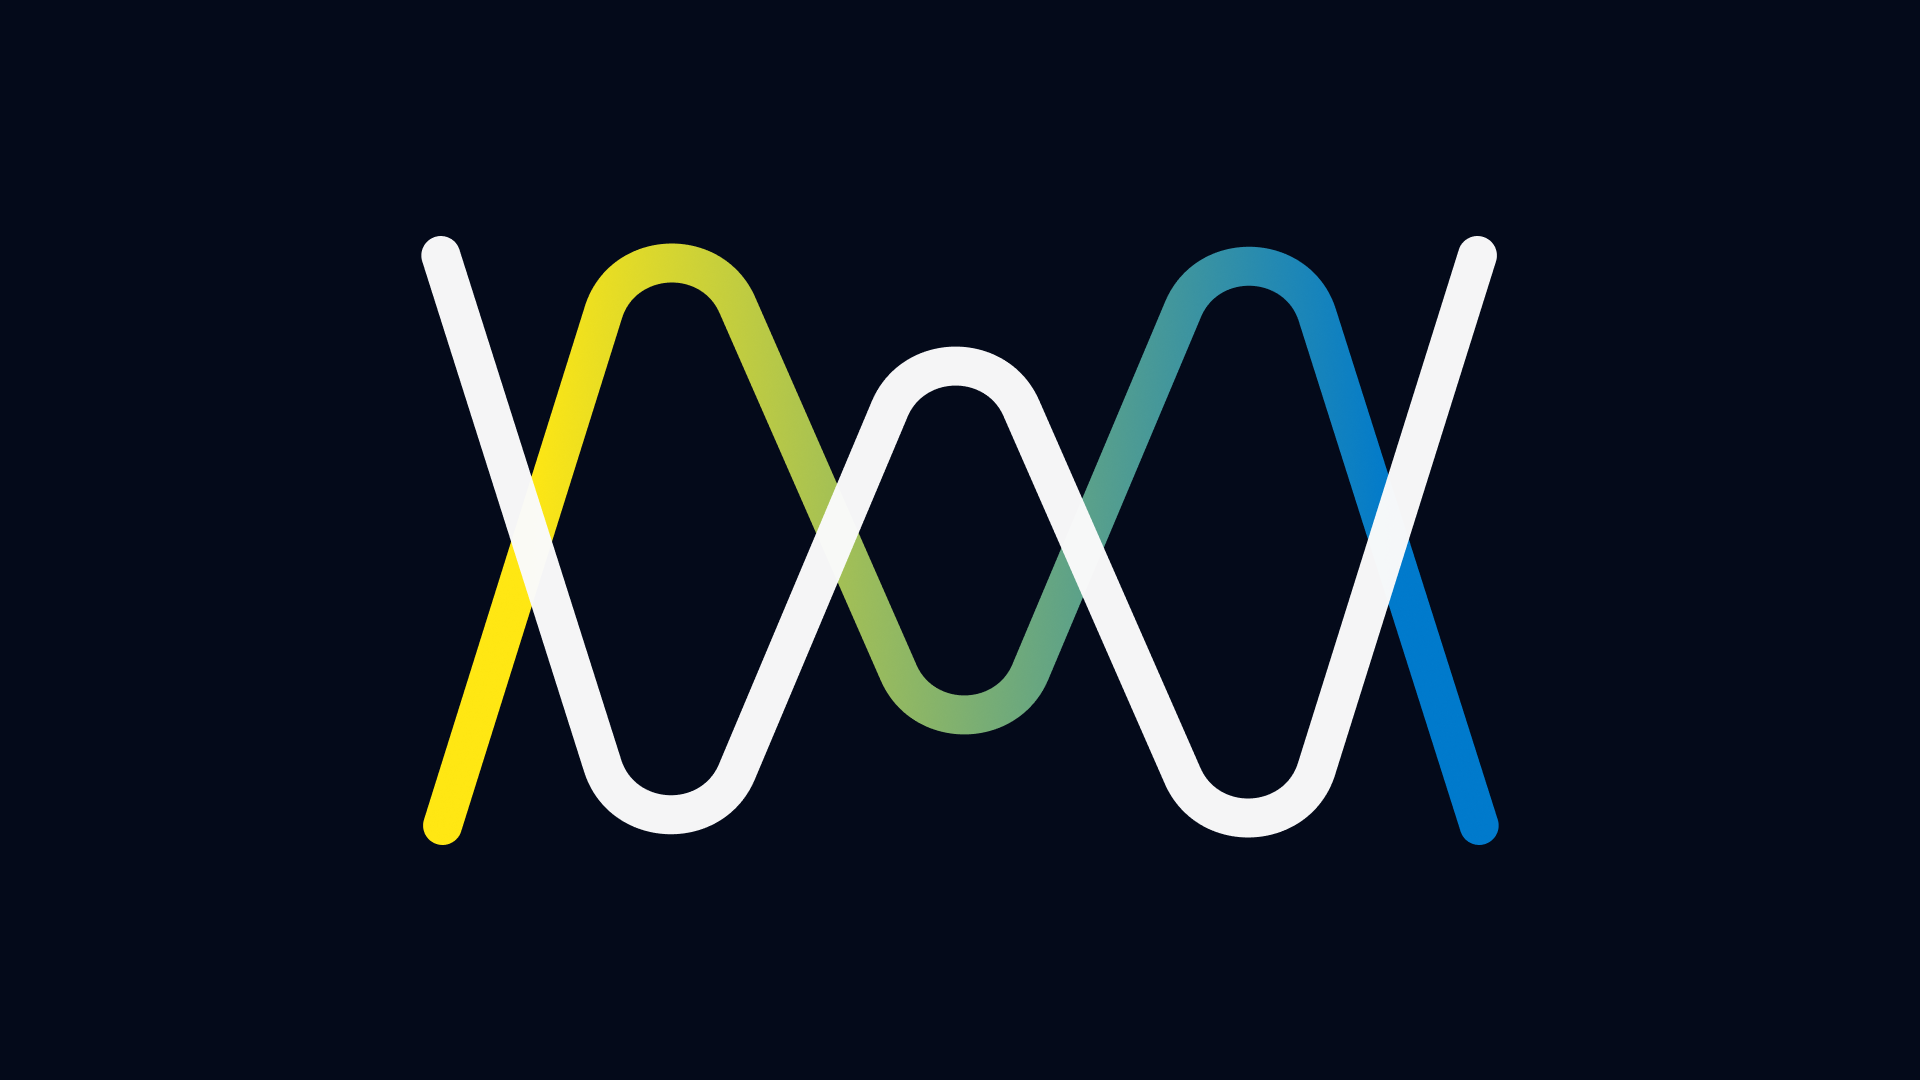
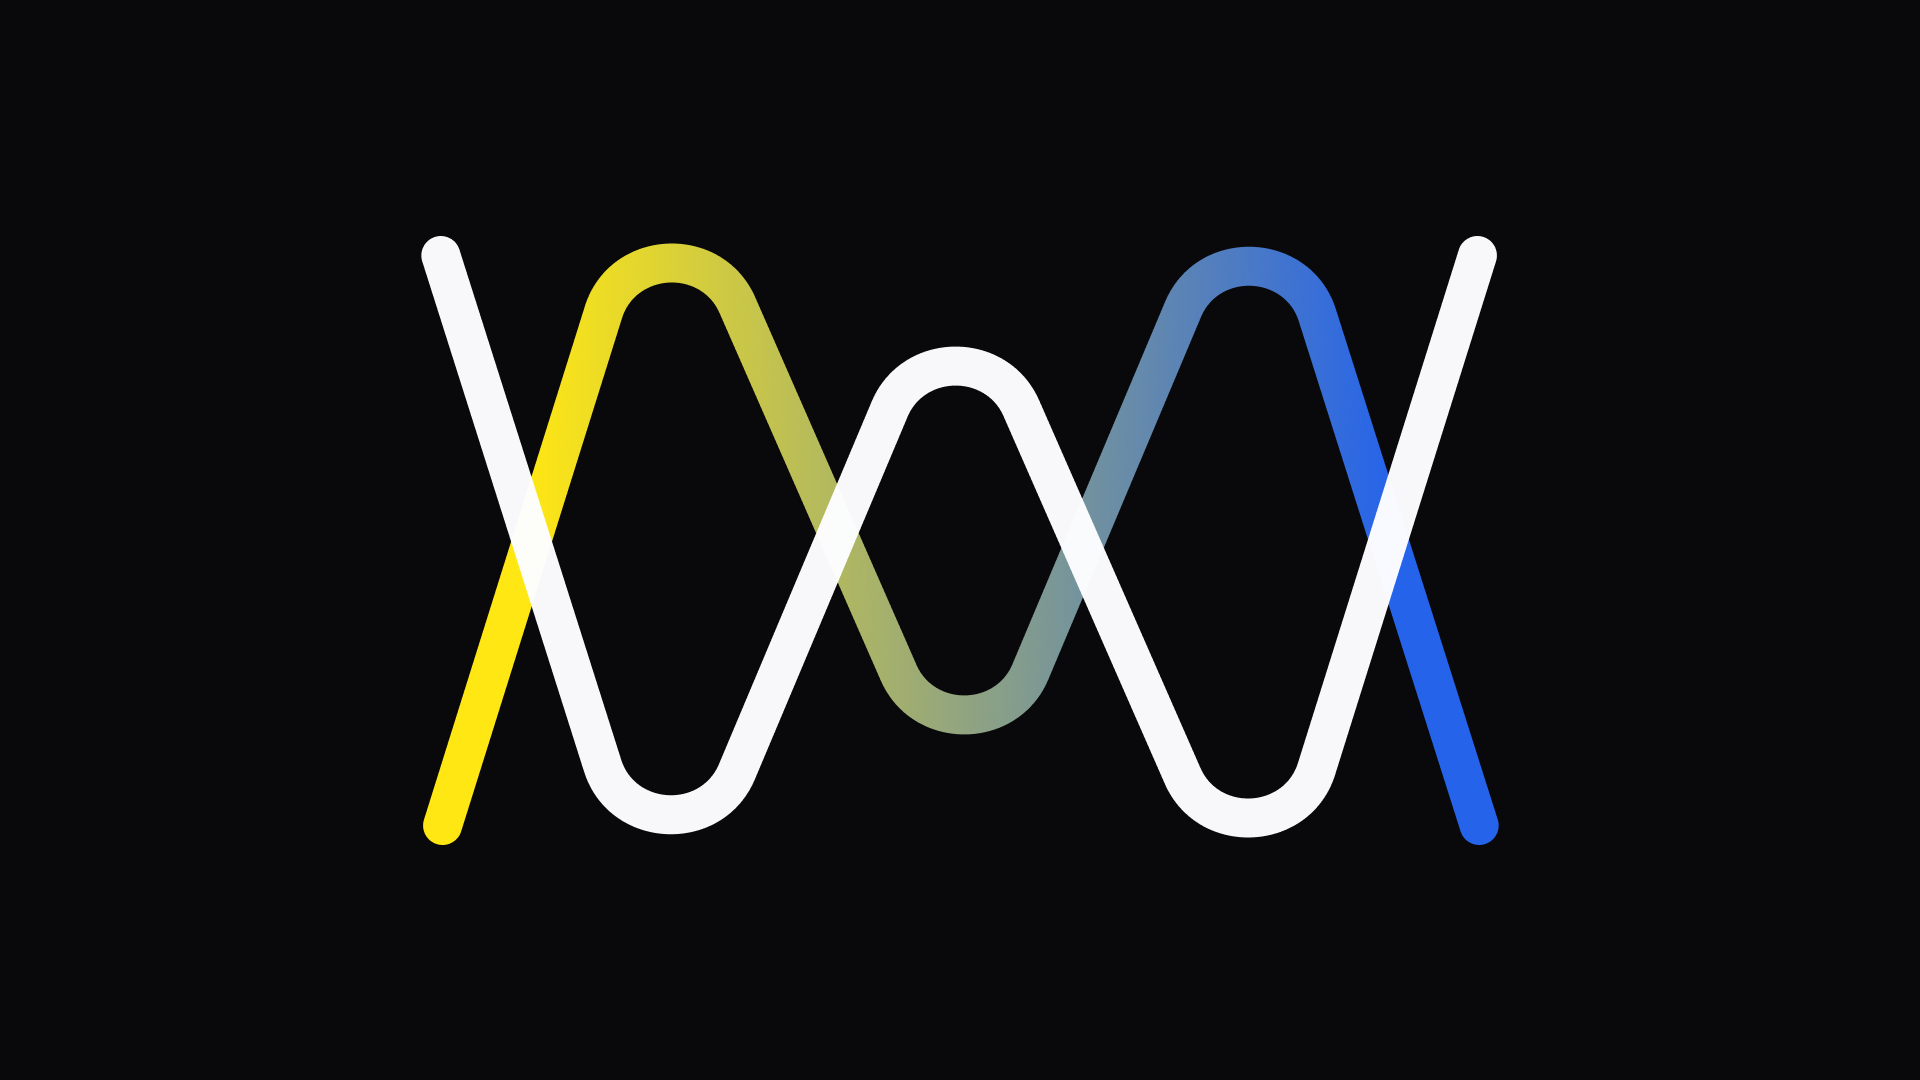
Add settings for TypeScript in VSCode, update SVG gradients, and adjust color hex values for improved UI consistency

Changed region(s): [[0.5625, 0.2139, 0.7188, 0.4889], [0.7188, 0.5194, 0.7812, 0.7944]]

diff --git a/src/components/resources/LogoList.tsx b/src/components/resources/LogoList.tsx
@@ -1,7 +1,8 @@
 /* eslint-disable @next/next/no-img-element */
 "use client";
 import { CardContainer, CardBody, CardItem } from "@/components/ui/3d-card";
-import { Button } from "@/components/ui/button";
+import { buttonVariants } from "@/components/ui/button";
+import { cn } from "@/lib/utils";
 import { DownloadIcon } from "@radix-ui/react-icons";
 
 export interface Logo {
@@ -35,14 +36,16 @@ export function LogoList({ logos = [] }: LogoListProps) {
                     <p className="text-center text-sm">{logo.size}</p>
                   </CardItem>
                   <CardItem translateZ="40">
-                    <Button
-                      variant="outline"
-                      size="sm"
-                      onClick={() => window.open(logo.src, "_blank")}
+                    <a
+                      className={cn(
+                        buttonVariants({ variant: "outline", size: "sm" }),
+                      )}
+                      href={logo.src}
+                      download
                     >
                       <DownloadIcon className="mr-2 h-4 w-4" />
                       Descargar
-                    </Button>
+                    </a>
                   </CardItem>
                 </div>
               </CardBody>

diff --git a/src/app/[lang]/globals.css b/src/app/[lang]/globals.css
@@ -14,11 +14,11 @@ body {
 
 @layer base {
   :root {
-    --background: 0 0% 100%;
+    --background: 240 100% 100%;
     --foreground: 240 10% 3.9%;
-    --card: 0 0% 100%;
+    --card: 240 100% 100%;
     --card-foreground: 240 10% 3.9%;
-    --popover: 0 0% 100%;
+    --popover: 240 100% 100%;
     --popover-foreground: 240 10% 3.9%;
     --primary: 240 5.9% 10%;
     --primary-foreground: 0 0% 98%;

diff --git a/src/components/icons/WM.tsx b/src/components/icons/WM.tsx
@@ -35,7 +35,7 @@ export const WMIcon: FC<SVGProps<SVGSVGElement>> = memo(function WMIcon({
           gradientUnits="userSpaceOnUse"
         >
           <stop offset="0.114583" stopColor="#FFE713" />
-          <stop offset="0.885417" stopColor="#007ACC" />
+          <stop offset="0.885417" stopColor="#2563EB" />
         </linearGradient>
       </defs>
     </svg>

diff --git a/src/components/resources/ColorSection.tsx b/src/components/resources/ColorSection.tsx
@@ -33,7 +33,7 @@ const colors: Color[] = [
   },
   {
     name: "White",
-    hex: "#FFFFFF",
+    hex: "#FDFDFF",
   },
 ];
 
